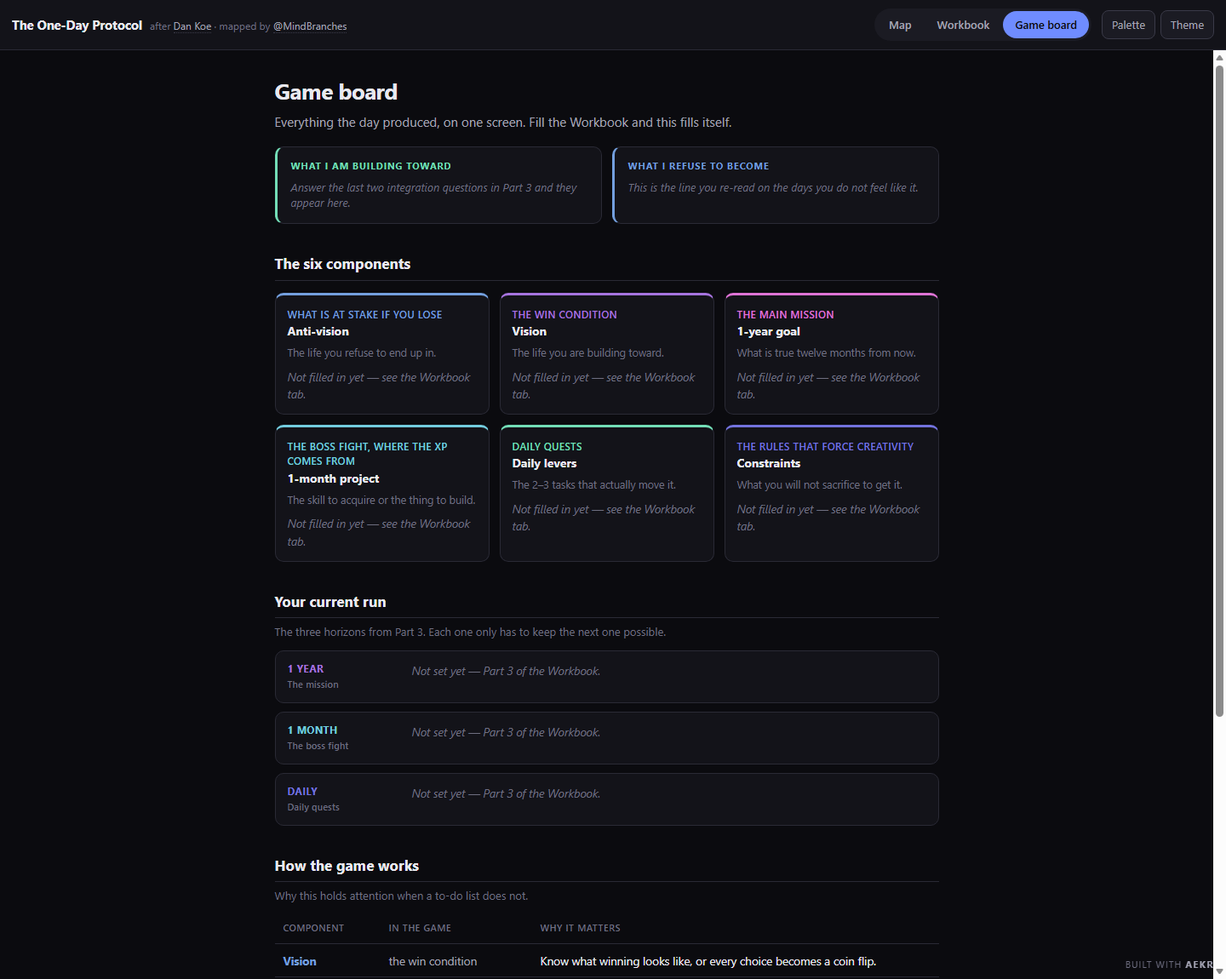
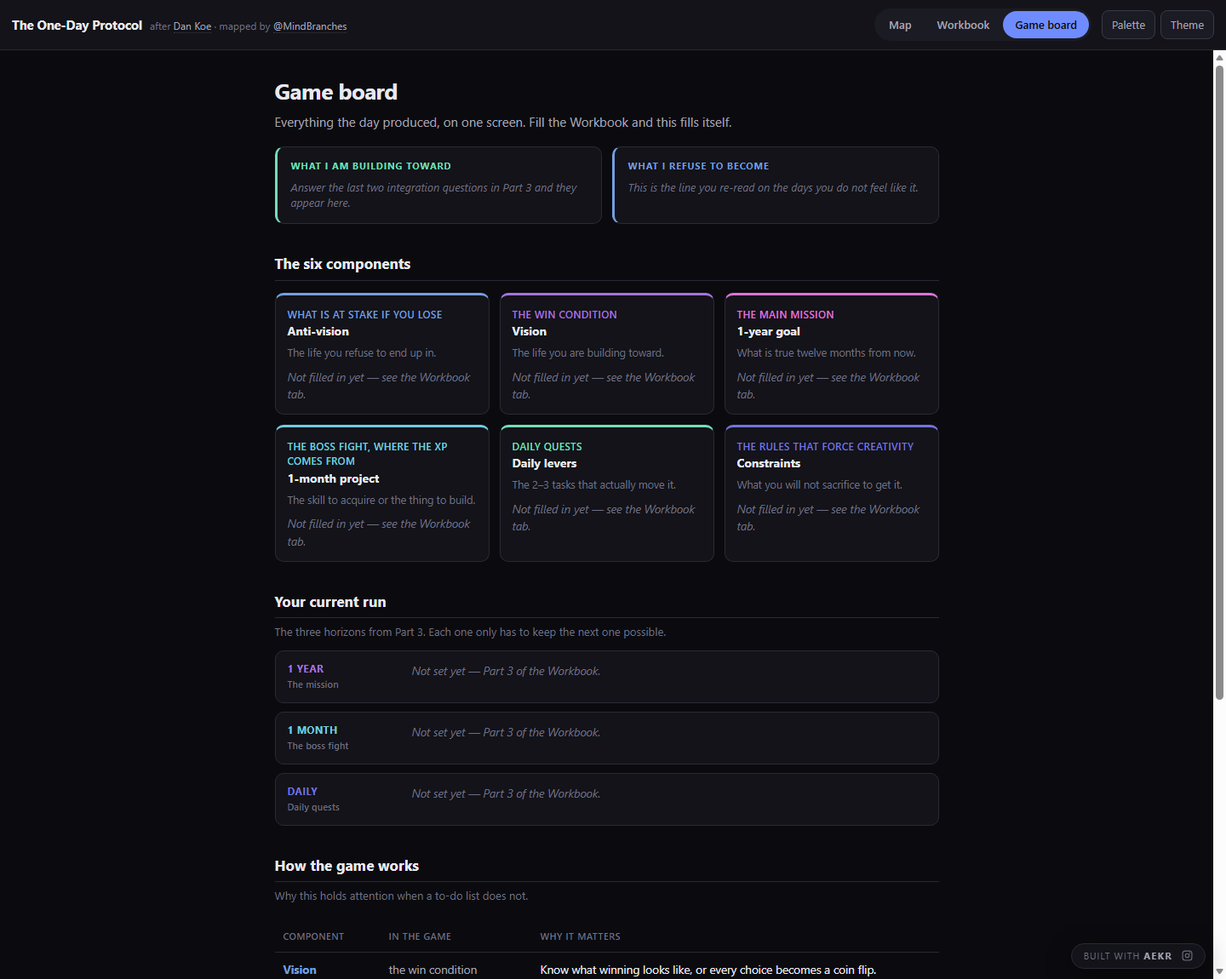
feat: AEKR Instagram, and fix two packaging/layout defects
Adds the AEKR Instagram (@__aerk) next to "Built with AEKR" in the app
footer, in the README, and in CREDITS, with a rendered AEKR banner from
tools/aekr-banner.html.

The footer is now a pill with its own background: as a bare fixed link it
overlapped the scrolling documents and sat under their scrollbar.

Builds the release zips in Node instead of PowerShell. Compress-Archive
writes BACKSLASH path separators, which the zip spec forbids — Windows
tolerates it, macOS and Linux extract a single file with a literal
backslash in its name. Verified with POSIX unzip and Expand-Archive.

Small-screen fixes: the header could push the page sideways, and the
mechanics table now scrolls inside its own box.

UI test grows phone checks: at 390px each tab is asserted not to scroll
sideways and the toolbar is asserted to still work. 35/35.

diff --git a/One Day Protocol.html b/One Day Protocol.html
@@ -145,16 +145,25 @@ main{flex:1;min-height:0;position:relative}
   background:var(--bg-2);border:1px solid var(--line);border-radius:10px;padding:6px;box-shadow:var(--shadow);
 }
 .hint{color:var(--fg-faint);font-size:11.5px;align-self:center;padding:0 6px}
+/* sits above the scrolling documents, so it needs its own ground to stay legible */
 .built{
-  position:fixed;right:14px;bottom:9px;z-index:6;text-decoration:none;
-  color:var(--fg-faint);font-size:11px;letter-spacing:.09em;text-transform:uppercase;
+  position:fixed;right:24px;bottom:12px;z-index:6;
+  display:flex;align-items:center;gap:11px;
+  font-size:11px;letter-spacing:.09em;text-transform:uppercase;
+  background:var(--bg-2);border:1px solid var(--line);
+  border-radius:999px;padding:6px 14px;box-shadow:var(--shadow);
 }
-.built:hover{color:var(--accent)}
+.built a{color:var(--fg-faint);text-decoration:none;display:flex;align-items:center}
+.built a:hover{color:var(--accent)}
 .built b{color:var(--fg-dim);font-weight:700;letter-spacing:.13em}
-.built:hover b{color:var(--accent)}
+.built a:hover b{color:var(--accent)}
+@media (max-width:640px){
+  .built{right:10px;bottom:8px;gap:9px;padding:5px 11px}
+  .built .lbl{display:none}
+}
 
 /* ---------- documents ---------- */
-.doc{max-width:820px;margin:0 auto;padding:28px 20px 100px}
+.doc{max-width:820px;margin:0 auto;padding:28px 20px 130px}
 .doc h1{font-size:26px;letter-spacing:-.02em;margin:0 0 6px}
 .doc h2{
   font-size:17px;margin:34px 0 6px;padding-bottom:6px;border-bottom:1px solid var(--line);
@@ -217,6 +226,8 @@ input[type="date"]{
 .runrow .t small{display:block;font-size:10.5px;font-weight:500;letter-spacing:.03em;color:var(--fg-faint);text-transform:none;margin-top:3px}
 .runrow .v{font-size:13.5px;white-space:pre-wrap;word-break:break-word}
 .runrow .v.empty{color:var(--fg-faint);font-style:italic}
+/* a wide table scrolls inside its own box, never widening the page */
+#mechanics{overflow-x:auto}
 .doc table{width:100%;border-collapse:collapse;margin-top:12px;font-size:13.5px}
 .doc th,.doc td{text-align:left;padding:9px 10px;border-bottom:1px solid var(--line);vertical-align:top}
 .doc th{font-size:10.5px;text-transform:uppercase;letter-spacing:.07em;color:var(--fg-faint);font-weight:600}
@@ -237,8 +248,18 @@ input[type="date"]{
   .field textarea{border:1px solid #999;background:#fff;color:#000;min-height:60px}
 }
 @media (max-width:640px){
+  /* the header must never be the thing that makes the page scroll sideways */
+  header.bar{gap:8px;padding:8px 10px}
+  .brand{flex:1 1 auto;min-width:0}
+  .brand b{font-size:13.5px;display:block;overflow:hidden;text-overflow:ellipsis}
   .brand span{display:none}
-  .doc{padding:20px 14px 80px}
+  .tabs{flex:none;padding:2px}
+  .tabs button{padding:6px 10px;font-size:12px}
+  .tools .btn{padding:5px 9px;font-size:12px}
+  .doc{padding:20px 14px 110px}
+  .maptools{left:8px;right:8px;bottom:8px;gap:5px}
+  .maptools .btn{flex:1 1 auto;padding:7px 8px;font-size:12px}
+  .hint{display:none}
 }
 </style>
 </head>
@@ -318,7 +339,16 @@ input[type="date"]{
     </section>
   </main>
 </div>
-<a class="built" href="https://aekr.io" target="_blank" rel="noopener noreferrer">Built with <b>AEKR</b></a>
+<div class="built">
+  <a href="https://aekr.io" target="_blank" rel="noopener noreferrer"><span class="lbl">Built with&nbsp;</span><b>AEKR</b></a>
+  <a href="https://www.instagram.com/__aerk/" target="_blank" rel="noopener noreferrer" aria-label="AEKR on Instagram" title="AEKR on Instagram">
+    <svg viewBox="0 0 24 24" width="13" height="13" fill="none" stroke="currentColor" stroke-width="2" aria-hidden="true">
+      <rect x="2" y="2" width="20" height="20" rx="5.5"/>
+      <circle cx="12" cy="12" r="4.2"/>
+      <circle cx="17.6" cy="6.4" r="1.3" fill="currentColor" stroke="none"/>
+    </svg>
+  </a>
+</div>
 
 <script type="application/json" id="model">{"meta":{"version":"2.0.0","title":"The One-Day Protocol","subtitle":"An interactive model of \"How to fix your entire life in 1 day\"","sourceAuthor":"Dan Koe","sourceWork":"How to fix your entire life in 1 day","mapAuthor":"@MindBranches","mapUrl":"https://x.com/MindBranches/status/2078988089393901842","builtWith":"AEKR","disclaimer":"Educational and self-reflection material. Not therapy, medical, or mental-health advice."},"root":{"id":"root","label":"How to fix your entire life in 1 day","kind":"root","note":"Five branches. Click any node to open it.","children":[{"id":"core-problem","label":"Core Problem","kind":"branch","note":"Why the usual approach to changing your life fails.","children":[{"id":"cp-action-layer","label":"Change fails at the action layer","kind":"point","note":"People swap behaviours while leaving their identity untouched.","summary":"Resolutions, habit trackers, 5am alarms — they all operate on what you do. None of them touch who you think you are. The self that produced the old behaviour is still sitting there when motivation runs out, and it quietly restores its defaults."},{"id":"cp-person-not-plan","label":"You need the person, not the plan","kind":"point","note":"Become someone for whom the desired actions are the obvious ones.","summary":"A plan is a list of things a different person would do. If every item takes force, you are running someone else's operating system on your hardware. Change the operator and the list stops needing enforcement."},{"id":"cp-not-an-accident","label":"Your current life is not an accident","kind":"point","note":"Today's behaviour is already succeeding at goals you never consciously chose.","summary":"Whatever you are doing now is producing something you value — comfort, safety, an identity, a usable excuse. Until you can name what the current pattern is paying you, you will keep buying it back."}]},{"id":"principles","label":"Key Psychological Principles","kind":"branch","note":"The mechanics underneath. Read this before running the day.","children":[{"id":"identity-first","label":"Identity First, Actions Second","kind":"sub","children":[{"id":"if-effort-symptom","label":"Effort is a symptom, not a strategy","kind":"point","note":"People who look like they are grinding are usually just living a life that fits them.","summary":"If a behaviour takes constant willpower, it has not been absorbed yet. Sustainable output looks boring from the inside: the person doing it is not overcoming anything, they are just living."},{"id":"if-lifestyle-before","label":"Adopt the lifestyle before the outcome","kind":"point","note":"Live as the person who already has the result.","summary":"Waiting for the result to justify the identity gets the order backwards. The habits, standards, hours and company of the person you want to be are the input, not the reward for arriving."},{"id":"if-misfit-repels","label":"Misfit habits should start to repel you","kind":"point","note":"Old habits stop feeling tempting and start feeling wrong.","summary":"This is the reliable signal that identity actually moved. You are not white-knuckling past the old habit — it stopped reading as a reward. If it still tempts you, the shift has not happened yet."}]},{"id":"your-mind","label":"Understanding Your Mind","kind":"sub","children":[{"id":"ym-teleological","label":"Behaviour is goal-directed","kind":"point","note":"Nothing you do is random. Every pattern is aimed at something.","summary":"Procrastination, conflict, self-sabotage — each is efficiently achieving something: risk avoided, self-image preserved, a story kept intact. Ask what a behaviour is for, not why it is wrong."},{"id":"ym-goals-against-you","label":"Some of those goals work against you","kind":"point","note":"You can pursue a goal for years without ever having chosen it.","summary":"Goals get installed by family, school, peers and pain, then run silently. \"Never look stupid\" is a goal. So is \"never need anyone.\" Either one will organise an entire life around itself."},{"id":"ym-change-the-goal","label":"Change the goal, not just the schedule","kind":"point","note":"New perspective produces new goals, which produce new behaviour.","summary":"Optimising your schedule around an unexamined goal only makes you more efficient at the wrong thing. Perspective sets the goal, the goal sets attention, attention sets behaviour. Intervene at the top."},{"id":"ym-identity-defends","label":"Identity defends itself","kind":"point","note":"Your sense of self reacts to contradiction the way your body reacts to infection.","summary":"Evidence that contradicts who you think you are registers as a threat, not as information. That is why good advice bounces off: the immune response fires before the argument is even heard."}]},{"id":"anatomy","label":"The Anatomy of Identity","kind":"sub","children":[{"id":"an-loop","label":"The identity loop","kind":"point","note":"Goal → perception → attention → action → feedback → automatic → \"who you are\" → defended → generates new goals.","summary":"The loop is self-sealing: goals decide what you notice, what you notice confirms the goal, and confirmation hardens into identity, which then generates more goals of the same kind. Breaking it means changing the goal at the top, not the behaviour at the bottom."},{"id":"an-childhood","label":"It started before you were consulted","kind":"point","note":"Most of the loop was installed in childhood by environment and conditioning.","summary":"You adopted a strategy that made one specific childhood environment survivable. It worked — that is precisely why it stayed. The only live question is whether that is still the environment you are in."},{"id":"an-ideology","label":"After survival comes ideology","kind":"point","note":"Once the body is safe, you defend beliefs as if they were food and shelter.","summary":"Being wrong starts to feel like dying. That is why people will burn a friendship rather than update a position, and why identity-level change feels genuinely dangerous rather than merely difficult."}]},{"id":"stages","label":"Stages of Mind Development","kind":"sub","children":[{"id":"st-where-most-are","label":"Most people sit between self-aware and construct-aware","kind":"point","note":"Roughly stages 4 to 8 in adult-development models.","summary":"Translated: aware that you have conditioning, not yet fluent at rewriting it. You can see the box. You are still furnishing it."},{"id":"st-sequential","label":"Development is sequential","kind":"point","note":"You cannot skip a stage. You can only move through the next one.","summary":"You can borrow the conclusions of a later stage, but they collapse the first time they are tested, because you did not do the work that made them yours."},{"id":"st-upper","label":"The upper stages question inherited beliefs","kind":"point","note":"You stop borrowing principles and start writing your own.","summary":"The shift is from \"what should I believe?\" to \"which of my beliefs did I actually choose?\" Principles you wrote yourself hold under pressure. Inherited ones do not."}]},{"id":"intelligence","label":"Intelligence Framework","kind":"sub","children":[{"id":"in-definition","label":"Intelligence = getting what you actually want","kind":"point","note":"A working definition, not an IQ score.","summary":"Can you look at your situation, see it accurately, and move it toward what you want? People with unremarkable credentials do this constantly. People with impressive ones often cannot."},{"id":"in-ingredients","label":"Three ingredients: agency, opportunity, intelligence","kind":"point","note":"Remove any one and results stall.","summary":"Agency without opportunity is frustration. Opportunity without agency is waste. Both, without the ability to steer, becomes a well-rehearsed story about bad luck."},{"id":"in-cybernetic","label":"The cybernetic loop","kind":"point","note":"Set a goal, act, sense where you are, compare to the goal, adjust.","summary":"The comparison step is the one everyone skips. Acting without measuring the gap between where you are and where you meant to be is motion, not progress."},{"id":"in-iteration","label":"High intelligence = iteration speed","kind":"point","note":"Persisting and learning from mistakes beats being right early.","summary":"The advantage compounds: more attempts means more feedback, and more feedback means better aim. Being right on attempt one is luck. Being right by attempt twelve is skill."}]}]},{"id":"protocol","label":"The One-Day Protocol","kind":"branch","note":"The day itself: morning, throughout, evening.","children":[{"id":"part1","label":"Part 1 — Morning: Psychological Excavation","kind":"sub","note":"15–30 minutes of honest writing, before the day gets loud.","summary":"Do this before your phone, your email, or anyone else's opinion reaches you. Write in full sentences — bullets let you skip the hard part. No editing while writing, and no audience.","children":[{"id":"anti-vision-q","label":"Anti-Vision Questions","kind":"group","summary":"Eight questions about the life you are currently on track for. This half is uncomfortable on purpose: the anti-vision is what you will re-read on the days motivation is absent.","children":[{"id":"av1","label":"What dissatisfaction have you quietly learned to tolerate?","kind":"prompt","summary":"Tolerance is the trap. Anything unbearable gets fixed — it is the merely annoying that lasts a decade. List what you have stopped noticing."},{"id":"av2","label":"What do you complain about repeatedly and never change?","kind":"prompt","summary":"A complaint you repeat is a decision you have already made. Naming it removes the option of pretending it is still an open question."},{"id":"av3","label":"What true thing about your life would be unbearable to say out loud?","kind":"prompt","summary":"Write the sentence you would never say at dinner. If nothing comes, you are editing — the resistance itself is the location."},{"id":"av4","label":"Five years out, nothing changes. Describe an ordinary Tuesday.","kind":"prompt","summary":"Not a summary — an hour-by-hour Tuesday. Where you wake up, what is in front of you, who is there, what you feel at 3pm. Vagueness is how you protect yourself here."},{"id":"av5","label":"Ten years out, same trajectory. Which doors have closed for good?","kind":"prompt","summary":"Some doors close by age, some by accumulated commitments, some by skills you did not build in time. Name which ones, specifically."},{"id":"av6","label":"At the end of your life, what did you never once attempt?","kind":"prompt","summary":"Strip out the social scoring. What did you actually want that you never made a single real attempt at?"},{"id":"av7","label":"Which identity would you have to stop defending in order to change?","kind":"prompt","summary":"Every change costs an identity — the realist, the one who had it hard, the one everyone relies on. Naming the price is what makes it payable."},{"id":"av8","label":"What is the embarrassing, real reason you have not changed yet?","kind":"prompt","summary":"Not the respectable reason. The one that sounds petty out loud: fear of looking stupid, of losing an excuse, of succeeding and still feeling like this."}]},{"id":"vision-q","label":"Vision Questions","kind":"group","summary":"Three questions about the life you are aiming at. Keep the same level of detail you used for the anti-vision — an ordinary Tuesday, not a highlight reel.","children":[{"id":"vq1","label":"Three years out, best realistic case. Describe an ordinary Tuesday in detail.","kind":"prompt","summary":"Best realistic case, not fantasy. Detail is what makes it usable: the hour you wake, the work in front of you, who you eat with, what you are no longer worried about."},{"id":"vq2","label":"What would you have to believe about yourself for that life to feel normal?","kind":"prompt","summary":"Beliefs are load-bearing. That life stays out of reach for as long as you hold beliefs that make it absurd for you, specifically, to have it."},{"id":"vq3","label":"If you were already that person, what would you do this week?","kind":"prompt","summary":"This converts the vision into something testable within seven days. Small enough to actually do, and unmistakably that person's move."}]}]},{"id":"part2","label":"Part 2 — Throughout the Day: Pattern Interruption","kind":"sub","note":"Six alarms that catch you mid-behaviour, plus three questions to carry around.","summary":"The point is not the answers. It is catching yourself mid-behaviour, while you can still see what you are doing. Answering these from memory at bedtime does not work — you will have edited yourself by then.","children":[{"id":"reminders","label":"Phone reminders","kind":"group","summary":"Set these as alarms with the question as the label. When one fires: stop, read it, answer in one line, go back to what you were doing. Sixty seconds each.","children":[{"id":"r1100","label":"What am I avoiding right now?","kind":"prompt","time":"11:00","summary":"Whatever came to mind first is the answer. Avoidance attaches itself to the thing that matters most, not the thing that is hardest."},{"id":"r1330","label":"Judging only by my behaviour today, what would a stranger say I want?","kind":"prompt","time":"13:30","summary":"Your stated goals are not evidence. Your calendar and your last four hours are."},{"id":"r1515","label":"Is this moving me toward the life I want or the one I dread?","kind":"prompt","time":"15:15","summary":"Binary question, no third option. Neutral is drift, and drift defaults to the life you dread."},{"id":"r1700","label":"What important thing am I pretending is not important?","kind":"prompt","time":"17:00","summary":"Usually a health issue, a relationship, or a conversation. Downgrading it in your head is cheaper than acting on it."},{"id":"r1930","label":"Today, what did I do to protect my image rather than to get what I want?","kind":"prompt","time":"19:30","summary":"Image protection is invisible from the inside. Look for the moment you softened something, stayed quiet, or performed."},{"id":"r2100","label":"When did I feel most alive today? Most dead?","kind":"prompt","time":"21:00","summary":"Track this across several days. Aliveness is data about direction, not a mood to chase."}]},{"id":"contemplation","label":"Carry-around questions","kind":"group","summary":"No schedule. Keep these in your pocket and return to them whenever the day goes quiet.","children":[{"id":"cq1","label":"What changes if I stop needing people to see me as ______?","kind":"prompt","summary":"Fill the blank with the label you work hardest to maintain. Most of what that identity costs you stays invisible until you price it."},{"id":"cq2","label":"Where am I trading aliveness for safety?","kind":"prompt","summary":"Safety is not the enemy; unexamined safety is. Find the specific trade you keep making without deciding to."},{"id":"cq3","label":"What is the smallest version of my future self I could be tomorrow?","kind":"prompt","summary":"Not a transformation — the smallest recognisable version. One hour, one decision, one different answer."}]}]},{"id":"part3","label":"Part 3 — Evening: Synthesis","kind":"sub","note":"Turn the day's raw material into two sentences and three goals.","summary":"Read back everything you wrote today before starting. This is the part that produces the deliverable — budget 45 to 60 minutes and do not rush the two one-sentence answers.","children":[{"id":"integration","label":"Integration questions","kind":"group","summary":"Four questions that compress the day into something you can act on. Two of them ask for exactly one sentence — hold yourself to it.","children":[{"id":"iq1","label":"Why, specifically, have you been stuck?","kind":"prompt","summary":"Answer with a mechanism, not a mood. \"I lacked discipline\" is not an answer. \"I never risked being bad at it in front of people\" is."},{"id":"iq2","label":"Name the internal enemy: which pattern or belief is actually running this?","kind":"prompt","summary":"It is a pattern or a belief — never a person or a circumstance. If your answer is external, you have nothing to act on."},{"id":"iq3","label":"One sentence: what you refuse to let your life become.","kind":"prompt","summary":"One sentence. If it takes a paragraph you have not found it yet. This is the line you will re-read on the bad days."},{"id":"iq4","label":"One sentence: what you are building toward.","kind":"prompt","summary":"One sentence, stated positively, in your own words. Not a goal — a direction."}]},{"id":"goals","label":"Goal setting — lenses, not finish lines","kind":"group","summary":"These exist to change what you notice tomorrow, not to be crossed off. A goal you never reach can still have done its job if it aimed your attention correctly for a year.","children":[{"id":"g1","label":"1 year: what would have to be true for you to know the pattern is broken?","kind":"prompt","summary":"Pick evidence, not a feeling. Something an outside observer could confirm twelve months from now."},{"id":"g2","label":"1 month: what must be true this month to keep the 1-year goal possible?","kind":"prompt","summary":"This is the constraint that keeps the year honest — what has to be true in 30 days for the 1-year answer to still be on the table."},{"id":"g3","label":"Daily: which 2–3 actions would your future self simply do, without debate?","kind":"prompt","summary":"Two or three, not ten. They have to be doable on a bad day, or they are not levers."}]}]}]},{"id":"implementation","label":"Implementation: Turn Life Into a Game","kind":"branch","note":"What you walk away with, and how to keep playing it.","children":[{"id":"six-components","label":"Six Components to Document","kind":"sub","summary":"This is the deliverable of the whole day. Every slot gets something, even a rough draft. Keep it where you will physically see it.","children":[{"id":"c-anti-vision","label":"Anti-vision","kind":"field","note":"The life you refuse to end up in.","mechanic":"What is at stake if you lose.","summary":"Write it as a scene, not a fear. You will re-read this on the days you do not feel like doing the work — that is its only job."},{"id":"c-vision","label":"Vision","kind":"field","note":"The life you are building toward.","mechanic":"The win condition.","summary":"A direction, not a destination. Concrete enough that you would recognise it if you arrived."},{"id":"c-year-goal","label":"1-year goal","kind":"field","note":"What is true twelve months from now.","mechanic":"The main mission.","summary":"One sentence, verifiable. If you could argue about whether you hit it, it is still too vague."},{"id":"c-month-project","label":"1-month project","kind":"field","note":"The skill to acquire or the thing to build.","mechanic":"The boss fight, where the XP comes from.","summary":"Something that ships or is learned inside 30 days. It should scare you slightly and produce evidence either way."},{"id":"c-daily-levers","label":"Daily levers","kind":"field","note":"The 2–3 tasks that actually move it.","mechanic":"Daily quests.","summary":"Two or three tasks, done before anything else. These are the only things that must happen for a day to count."},{"id":"c-constraints","label":"Constraints","kind":"field","note":"What you will not sacrifice to get it.","mechanic":"The rules that force creativity.","summary":"Health, relationships, ethics, sleep — whatever you will not trade. Constraints are not obstacles; they force the creative path."}]},{"id":"game-mechanics","label":"Game Mechanics","kind":"sub","summary":"The six components map onto the parts of any decent game. This is not decoration — it is why the structure holds attention when a to-do list does not.","children":[{"id":"gm-vision","label":"Vision = the win condition","kind":"point","summary":"Know what winning looks like, or every choice becomes a coin flip."},{"id":"gm-anti","label":"Anti-vision = what is at stake if you lose","kind":"point","summary":"Stakes are what make a game real. No downside, no urgency."},{"id":"gm-year","label":"1-year goal = the main mission","kind":"point","summary":"The mission is what gives this month its meaning. Without it, the month is busywork."},{"id":"gm-month","label":"1-month project = the boss fight","kind":"point","summary":"Where skill actually increases. Boss fights, not grinding."},{"id":"gm-levers","label":"Daily levers = daily quests","kind":"point","summary":"Small, repeatable, done every day. This is where the hours actually go."},{"id":"gm-constraints","label":"Constraints = the rules that force creativity","kind":"point","summary":"Limits force invention. A game with no rules is not a game."}]}]},{"id":"insights","label":"Critical Insights","kind":"branch","note":"Things worth knowing before you expect a result.","children":[{"id":"ci-tension","label":"Change is sudden, but only after tension builds","kind":"point","note":"Dissonance leads to uncertainty, uncertainty leads to discovery.","summary":"Nothing changes, nothing changes, then everything does. The plateau is the tension accumulating, and it is exactly where most people quit."},{"id":"ci-clarity","label":"Clarity compresses time, hours do not","kind":"point","note":"You cannot make six years of progress in six months without knowing what you are aiming at.","summary":"Effort spent in the wrong direction is still effort. Clarity is what makes the same number of hours count for more."},{"id":"ci-full-day","label":"This takes one full day of focused work","kind":"point","note":"Half-doing it produces half-answers.","summary":"Two hours gives you back the answers you already had. The useful material only shows up once you have exhausted the rehearsed ones."},{"id":"ci-chapter","label":"It lands differently depending on your chapter","kind":"point","note":"Timing is part of the result.","summary":"If the questions do not land, the timing may be wrong rather than you. Put it down and come back in a few months."},{"id":"ci-questioning","label":"Questioning is thinking","kind":"point","note":"Most of what passes for thinking is rehearsing things you already believe.","summary":"Rehearsing a position feels like thinking and produces nothing new. A real question is one you do not already have the answer to."},{"id":"ci-goals-shape-reality","label":"Your goals build your reality","kind":"point","note":"They decide what you notice and what you treat as valuable.","summary":"Change the goal and the same room contains different information. This is why a genuine shift in perspective feels like the world changed rather than you."}]}]}}</script>
 <script>
@@ -1255,7 +1285,8 @@ function selfTest(){
   ok(document.querySelectorAll("#mechanics tr").length === 1 + (byId["game-mechanics"].children || []).length,
      "board legend has a row per mechanic");
   ok(document.querySelectorAll(".built").length === 1, "AEKR footer present");
-  ok(document.querySelector(".built").getAttribute("href") === "https://aekr.io", "AEKR footer links to aekr.io");
+  ok(!!document.querySelector('.built a[href="https://aekr.io"]'), "AEKR footer links to aekr.io");
+  ok(!!document.querySelector('.built a[href*="instagram.com/__aerk"]'), "AEKR footer links to Instagram");
 
   var md = toMarkdown();
   ok(md.length > 500, "markdown export non-trivial");

diff --git a/tools/template.html b/tools/template.html
@@ -145,16 +145,25 @@ main{flex:1;min-height:0;position:relative}
   background:var(--bg-2);border:1px solid var(--line);border-radius:10px;padding:6px;box-shadow:var(--shadow);
 }
 .hint{color:var(--fg-faint);font-size:11.5px;align-self:center;padding:0 6px}
+/* sits above the scrolling documents, so it needs its own ground to stay legible */
 .built{
-  position:fixed;right:14px;bottom:9px;z-index:6;text-decoration:none;
-  color:var(--fg-faint);font-size:11px;letter-spacing:.09em;text-transform:uppercase;
+  position:fixed;right:24px;bottom:12px;z-index:6;
+  display:flex;align-items:center;gap:11px;
+  font-size:11px;letter-spacing:.09em;text-transform:uppercase;
+  background:var(--bg-2);border:1px solid var(--line);
+  border-radius:999px;padding:6px 14px;box-shadow:var(--shadow);
 }
-.built:hover{color:var(--accent)}
+.built a{color:var(--fg-faint);text-decoration:none;display:flex;align-items:center}
+.built a:hover{color:var(--accent)}
 .built b{color:var(--fg-dim);font-weight:700;letter-spacing:.13em}
-.built:hover b{color:var(--accent)}
+.built a:hover b{color:var(--accent)}
+@media (max-width:640px){
+  .built{right:10px;bottom:8px;gap:9px;padding:5px 11px}
+  .built .lbl{display:none}
+}
 
 /* ---------- documents ---------- */
-.doc{max-width:820px;margin:0 auto;padding:28px 20px 100px}
+.doc{max-width:820px;margin:0 auto;padding:28px 20px 130px}
 .doc h1{font-size:26px;letter-spacing:-.02em;margin:0 0 6px}
 .doc h2{
   font-size:17px;margin:34px 0 6px;padding-bottom:6px;border-bottom:1px solid var(--line);
@@ -217,6 +226,8 @@ input[type="date"]{
 .runrow .t small{display:block;font-size:10.5px;font-weight:500;letter-spacing:.03em;color:var(--fg-faint);text-transform:none;margin-top:3px}
 .runrow .v{font-size:13.5px;white-space:pre-wrap;word-break:break-word}
 .runrow .v.empty{color:var(--fg-faint);font-style:italic}
+/* a wide table scrolls inside its own box, never widening the page */
+#mechanics{overflow-x:auto}
 .doc table{width:100%;border-collapse:collapse;margin-top:12px;font-size:13.5px}
 .doc th,.doc td{text-align:left;padding:9px 10px;border-bottom:1px solid var(--line);vertical-align:top}
 .doc th{font-size:10.5px;text-transform:uppercase;letter-spacing:.07em;color:var(--fg-faint);font-weight:600}
@@ -237,8 +248,18 @@ input[type="date"]{
   .field textarea{border:1px solid #999;background:#fff;color:#000;min-height:60px}
 }
 @media (max-width:640px){
+  /* the header must never be the thing that makes the page scroll sideways */
+  header.bar{gap:8px;padding:8px 10px}
+  .brand{flex:1 1 auto;min-width:0}
+  .brand b{font-size:13.5px;display:block;overflow:hidden;text-overflow:ellipsis}
   .brand span{display:none}
-  .doc{padding:20px 14px 80px}
+  .tabs{flex:none;padding:2px}
+  .tabs button{padding:6px 10px;font-size:12px}
+  .tools .btn{padding:5px 9px;font-size:12px}
+  .doc{padding:20px 14px 110px}
+  .maptools{left:8px;right:8px;bottom:8px;gap:5px}
+  .maptools .btn{flex:1 1 auto;padding:7px 8px;font-size:12px}
+  .hint{display:none}
 }
 </style>
 </head>
@@ -318,7 +339,16 @@ input[type="date"]{
     </section>
   </main>
 </div>
-<a class="built" href="https://aekr.io" target="_blank" rel="noopener noreferrer">Built with <b>AEKR</b></a>
+<div class="built">
+  <a href="https://aekr.io" target="_blank" rel="noopener noreferrer"><span class="lbl">Built with&nbsp;</span><b>AEKR</b></a>
+  <a href="https://www.instagram.com/__aerk/" target="_blank" rel="noopener noreferrer" aria-label="AEKR on Instagram" title="AEKR on Instagram">
+    <svg viewBox="0 0 24 24" width="13" height="13" fill="none" stroke="currentColor" stroke-width="2" aria-hidden="true">
+      <rect x="2" y="2" width="20" height="20" rx="5.5"/>
+      <circle cx="12" cy="12" r="4.2"/>
+      <circle cx="17.6" cy="6.4" r="1.3" fill="currentColor" stroke="none"/>
+    </svg>
+  </a>
+</div>
 
 <script type="application/json" id="model">/*__MODEL_JSON__*/</script>
 <script>
@@ -1255,7 +1285,8 @@ function selfTest(){
   ok(document.querySelectorAll("#mechanics tr").length === 1 + (byId["game-mechanics"].children || []).length,
      "board legend has a row per mechanic");
   ok(document.querySelectorAll(".built").length === 1, "AEKR footer present");
-  ok(document.querySelector(".built").getAttribute("href") === "https://aekr.io", "AEKR footer links to aekr.io");
+  ok(!!document.querySelector('.built a[href="https://aekr.io"]'), "AEKR footer links to aekr.io");
+  ok(!!document.querySelector('.built a[href*="instagram.com/__aerk"]'), "AEKR footer links to Instagram");
 
   var md = toMarkdown();
   ok(md.length > 500, "markdown export non-trivial");

diff --git a/tools/aekr-banner.html b/tools/aekr-banner.html
@@ -1,0 +1,62 @@
+<!DOCTYPE html>
+<html lang="en">
+<head>
+<meta charset="utf-8">
+<title>aekr banner source</title>
+<!--
+  Source for docs/img/aekr.png. Render at 1200x150, scale factor 2:
+
+  msedge --headless=new --window-size=1200,150 --force-device-scale-factor=2 \
+         --screenshot=docs/img/aekr.png tools/aekr-banner.html
+-->
+<style>
+  *{box-sizing:border-box;margin:0;padding:0}
+  html,body{width:1200px;height:150px;overflow:hidden}
+  body{
+    background:#0b0b0f;
+    font-family:ui-sans-serif,system-ui,-apple-system,"Segoe UI",Roboto,Arial,sans-serif;
+    color:#e9e9f0;display:flex;align-items:center;justify-content:space-between;
+    padding:0 56px;position:relative;
+  }
+  body::before{
+    content:"";position:absolute;left:0;right:0;top:0;height:1px;
+    background:linear-gradient(90deg,transparent,#6f8cff66,#8b6cf066,transparent);
+  }
+  body::after{
+    content:"";position:absolute;left:50%;top:-190px;width:520px;height:380px;
+    transform:translateX(-50%);
+    background:radial-gradient(circle,rgba(111,140,255,.10),transparent 65%);
+  }
+  .left{display:flex;align-items:baseline;gap:16px;position:relative;z-index:2}
+  .mark{font-size:40px;font-weight:800;letter-spacing:.16em;color:#e9e9f0}
+  .tag{font-size:13px;color:#6f6f81;letter-spacing:.1em;text-transform:uppercase}
+  .right{display:flex;align-items:center;gap:26px;position:relative;z-index:2}
+  .item{display:flex;align-items:center;gap:9px;font-size:15px;color:#a4a4b4}
+  .item svg{flex:none}
+  .item b{color:#e9e9f0;font-weight:600}
+</style>
+</head>
+<body>
+  <div class="left">
+    <span class="tag">Built with</span>
+    <span class="mark">AEKR</span>
+  </div>
+  <div class="right">
+    <span class="item">
+      <svg viewBox="0 0 24 24" width="17" height="17" fill="none" stroke="#6f8cff" stroke-width="1.9">
+        <circle cx="12" cy="12" r="9.2"/>
+        <path d="M3 12h18M12 2.8c2.6 2.6 2.6 15.8 0 18.4M12 2.8c-2.6 2.6-2.6 15.8 0 18.4"/>
+      </svg>
+      <b>aekr.io</b>
+    </span>
+    <span class="item">
+      <svg viewBox="0 0 24 24" width="17" height="17" fill="none" stroke="#8b6cf0" stroke-width="1.9">
+        <rect x="2.6" y="2.6" width="18.8" height="18.8" rx="5.4"/>
+        <circle cx="12" cy="12" r="4"/>
+        <circle cx="17.4" cy="6.6" r="1.15" fill="#8b6cf0" stroke="none"/>
+      </svg>
+      <b>@__aerk</b>
+    </span>
+  </div>
+</body>
+</html>

diff --git a/README.md b/README.md
@@ -2,7 +2,7 @@
 
 An interactive model of **"How to fix your entire life in 1 day"** by [Dan Koe](https://thedankoe.com/), organised after the mind map by [@MindBranches](https://x.com/MindBranches/status/2078988089393901842).
 
-**[⬇ Download](https://github.com/edlopezpm-ops/one-day-protocol/releases/latest)** · **[Run the day](docs/SOP-03-run-the-day.md)** · Built with **[AEKR](https://aekr.io)**
+**[⬇ Download](https://github.com/edlopezpm-ops/one-day-protocol/releases/latest)** · **[Run the day](docs/SOP-03-run-the-day.md)** · Built with **[AEKR](https://aekr.io)** · **[@__aerk](https://www.instagram.com/__aerk/)**
 
 ---
 
@@ -59,3 +59,9 @@ Para Obsidian, baja `Obsidian-Vault.zip` y abre la carpeta `vault` como bóveda.
 Guía del día completo: [docs/SOP-03-run-the-day.md](docs/SOP-03-run-the-day.md)
 
 </details>
+
+---
+
+[![Built with AEKR](docs/img/aekr.png)](https://aekr.io)
+
+**[aekr.io](https://aekr.io)** · **[@__aerk on Instagram](https://www.instagram.com/__aerk/)**

diff --git a/CREDITS.md b/CREDITS.md
@@ -22,6 +22,10 @@ Designed, built and verified with **[AEKR](https://aekr.io)** — the method beh
 repository was scoped, structured and checked. Every artefact here is generated from a single
 content model and validated automatically before release.
 
+[![Built with AEKR](docs/img/aekr.png)](https://aekr.io)
+
+**[aekr.io](https://aekr.io)** · **[@__aerk on Instagram](https://www.instagram.com/__aerk/)**
+
 ## Standing offer
 
 Non-commercial, unaffiliated, unendorsed. If either author wants attribution changed, phrasing adjusted, or this taken down — open an issue or contact the owner. It gets done, no argument.
